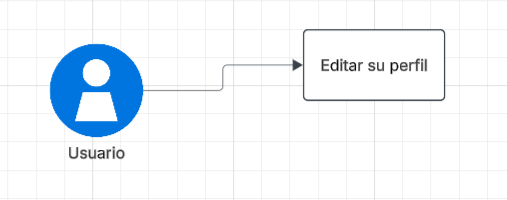
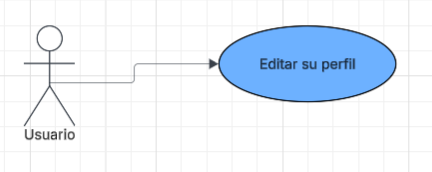
docs: refactorized requirement 1, added a new file to specify what should be in register and profile and uploaded images with UML standard

Changed region(s): [[0.0301, 0.1453, 0.9329, 0.814], [0.0602, 0.1744, 0.0903, 0.2616]]

diff --git a/oficioYa-users/docs/requirements/requirements.md b/oficioYa-users/docs/requirements/requirements.md
@@ -8,14 +8,12 @@ El sistema de OficioYa tiene los siguientes requerimientos (descripción a alto 
 
 El sistema de OficioYa debe tener la capacidad de:
 
-1. Permitir registrar una cuenta con los datos necesarios según el rol
-2. Una misma cuenta debe tener roles simultáneos sin tener que crear otra cuenta
+1. Permitir registrar un usuario con los datos necesarios según el rol
+2. Un mismo usuario debe tener roles simultáneos sin tener que crear otro usuario
 3. Consultar su propio perfil con la información registrada en la plataforma
 4. Editar ciertas secciones principales del perfil (excepto las que están ocultas)
 5. Consultar el perfil de otro usuario, mostrando información básica de acuerdo al tipo de rol
-6. Autorizar al administrador de realizar todas las operaciones CRUD sobre las cuentas
-de la plataforma
-7. El administrador puede desactivar o reactivar una cuenta por si sucede algún conflicto o mal uso
+6. El administrador puede desactivar o reactivar una cuenta por si sucede algún conflicto o mal uso
 de los servicios que ofrece la página web
 
 ### 1.2 Requerimientos no funcionales
@@ -31,91 +29,78 @@ para todos los usuarios (excepto para el administrador)
 
 ### 2.1 Requerimiento Funcional 1
 
-| Campo | Descripción                                                                                                                                                                              |
-|------|------------------------------------------------------------------------------------------------------------------------------------------------------------------------------------------|
-| **ID** | RF-01                                                                                                                                                                                    |
-| **Nombre del requerimiento** | Permitir registrar una cuenta con los datos necesarios según el rol.                                                                                                                     |
-| **Descripción** | *El sistema debe permitir a un usuario registrar su información y elegir el tipo de rol(es) a su cuenta*                                                                                 |
-| **Precondiciones** | *El usuario no debe tener una cuenta previamente registrada con el mismo correo*                                                                                                         |
-| **Actor** | *Usuario*                                                                                                                                                                                |
-| **Flujo principal** | 1. El usuario entra a la plataforma<br/>2. El usuario digita sus datos (si es trabajador o contratante) en los campos requeridos <br/>3. La cuenta ha sido registrada dentro de OficioYa |
-| **Diagrama de caso de uso** | ![Diagrama RF-01](../uml/user_register_account.png)                                                                                                                                      |
-| **Poscondiciones** | *La cuenta del usuario debió haber sido registrada exitosamente dentro de la plataforma*                                                                                                 |
+| Campo                        | Descripción                                                                                                                                                                                                                               |
+|------------------------------|-------------------------------------------------------------------------------------------------------------------------------------------------------------------------------------------------------------------------------------------|
+| **ID**                       | RF-01                                                                                                                                                                                                                                     |
+| **Nombre del requerimiento** | Permitir registrar una cuenta con los datos necesarios según el rol.                                                                                                                                                                      |
+| **Descripción**              | *El sistema debe permitir a un usuario registrar su información y elegir el tipo de rol(es) a su cuenta*. El formulario del usuario debe quedar de la siguiente manera:<br/>[Requisito de datos del usuario](./data_user_requirements.md) |
+| **Precondiciones**           | *El usuario no debe tener una cuenta previamente registrada con el mismo correo*                                                                                                                                                          |
+| **Actor**                    | *Usuario*                                                                                                                                                                                                                                 |
+| **Flujo principal**          | 1. El usuario entra a la plataforma<br/>2. El usuario digita sus datos (si es trabajador o contratante) en los campos requeridos <br/>3. La cuenta ha sido registrada dentro de OficioYa                                                  |
+| **Diagrama de caso de uso**  | ![Diagrama RF-01](../uml/user_register_account.png)                                                                                                                                                                                       |
+| **Poscondiciones**           | *La cuenta del usuario debió haber sido registrada exitosamente dentro de la plataforma*                                                                                                                                                  |
 
 ### 2.2 Requerimiento Funcional 2
 
-| Campo | Descripción                                                                                                                                     |
-|------|-------------------------------------------------------------------------------------------------------------------------------------------------|
-| **ID** | RF-02                                                                                                                                           |
+| Campo                        | Descripción                                                                                                                                     |
+|------------------------------|-------------------------------------------------------------------------------------------------------------------------------------------------|
+| **ID**                       | RF-02                                                                                                                                           |
 | **Nombre del requerimiento** | Una misma cuenta debe tener roles simultáneos sin tener que crear otra cuenta.                                                                  |
-| **Descripción** | *Permitir dos roles a la vez en una misma cuenta*                                                                                               |
-| **Precondiciones** | *El sistema debe permitir que una misma cuenta opere como trabajador y contratante a la vez, sin necesidad de crear una segunda cuenta*         |
-| **Actor** | *Usuario*                                                                                                                                       |
-| **Flujo principal** | 1. El usuario ingresa a su perfil <br/>2. El usuario solicita añadir el rol faltante<br/>3. El sistema habilita el nuevo rol en la misma cuenta |
-| **Diagrama de caso de uso** | ![Diagrama RF-02](../uml/additional_role.png)                                                                                                   |
-| **Poscondiciones** | *La cuenta del usuario es habilitada con ambos roles*                                                                                           |
+| **Descripción**              | *Permitir dos roles a la vez en una misma cuenta*                                                                                               |
+| **Precondiciones**           | *El sistema debe permitir que una misma cuenta opere como trabajador y contratante a la vez, sin necesidad de crear una segunda cuenta*         |
+| **Actor**                    | *Usuario*                                                                                                                                       |
+| **Flujo principal**          | 1. El usuario ingresa a su perfil <br/>2. El usuario solicita añadir el rol faltante<br/>3. El sistema habilita el nuevo rol en la misma cuenta |
+| **Diagrama de caso de uso**  | ![Diagrama RF-02](../uml/additional_role.png)                                                                                                   |
+| **Poscondiciones**           | *La cuenta del usuario es habilitada con ambos roles*                                                                                           |
 
 ### 2.3 Requerimiento Funcional 3
 
-| Campo | Descripción                                                                                                                             |
-|------|-----------------------------------------------------------------------------------------------------------------------------------------|
-| **ID** | RF-03                                                                                                                                   |
+| Campo                        | Descripción                                                                                                                             |
+|------------------------------|-----------------------------------------------------------------------------------------------------------------------------------------|
+| **ID**                       | RF-03                                                                                                                                   |
 | **Nombre del requerimiento** | Consultar su propio perfil.                                                                                                             |
-| **Descripción** | *El sistema debe permitir a un usuario consultar su propio perfil con la información registrada en la plataforma*                       |
-| **Precondiciones** | *El usuario debe estar autenticado en la platorma*                                                                                      |
-| **Actor** | *Trabajador o Contratante*                                                                                                              |
-| **Flujo principal** | 1. El usuario ingresa a la sección *Perfil*<br/>2. El sistema muestra información básica del usuario pero con correo y teléfono ocultos |
-| **Diagrama de caso de uso** | ![Diagrama RF-03](../uml/query_profile.png)                                                                                             |
-| **Poscondiciones** | *El usuario debe ver correctamente su perfil*                                                                                           |
+| **Descripción**              | *El sistema debe permitir a un usuario consultar su propio perfil con la información registrada en la plataforma*                       |
+| **Precondiciones**           | *El usuario debe estar autenticado en la platorma*                                                                                      |
+| **Actor**                    | *Trabajador o Contratante*                                                                                                              |
+| **Flujo principal**          | 1. El usuario ingresa a la sección *Perfil*<br/>2. El sistema muestra información básica del usuario pero con correo y teléfono ocultos |
+| **Diagrama de caso de uso**  | ![Diagrama RF-03](../uml/query_profile.png)                                                                                             |
+| **Poscondiciones**           | *El usuario debe ver correctamente su perfil*                                                                                           |
 
 ### 2.4 Requerimiento Funcional 4
 
-| Campo | Descripción                                                                                                                                                           |
-|------|-----------------------------------------------------------------------------------------------------------------------------------------------------------------------|
-| **ID** | RF-04                                                                                                                                                                 |
+| Campo                        | Descripción                                                                                                                                                           |
+|------------------------------|-----------------------------------------------------------------------------------------------------------------------------------------------------------------------|
+| **ID**                       | RF-04                                                                                                                                                                 |
 | **Nombre del requerimiento** | Editar su propio perfil.                                                                                                                                              |
-| **Descripción** | *El sistema debe permitir editar las secciones básicas del perfil con excepción de los campos ocultos*                                                                |
-| **Precondiciones** | *El usuario debe estar autenticado y tener un perfil ya creado*                                                                                                       |
-| **Actor** | *Trabajador o Contratante*                                                                                                                                            |
-| **Flujo principal** | 1. El usuario ingresa a la sección *Editar perfil*<br/>2. El usuario modifica los campos que puede editar (nombre, foto, oficio)<br/>3. El sistema guarda los cambios |
-| **Diagrama de caso de uso** | ![Diagrama RF-04](../uml/edit_profile.png)                                                                                                                            |
-| **Poscondiciones** | *El perfil debe quedar actualizado con la nueva información*                                                                                                          |
+| **Descripción**              | *El sistema debe permitir editar las secciones básicas del perfil con excepción de los campos ocultos*                                                                |
+| **Precondiciones**           | *El usuario debe estar autenticado y tener un perfil ya creado*                                                                                                       |
+| **Actor**                    | *Trabajador o Contratante*                                                                                                                                            |
+| **Flujo principal**          | 1. El usuario ingresa a la sección *Editar perfil*<br/>2. El usuario modifica los campos que puede editar (nombre, foto, oficio)<br/>3. El sistema guarda los cambios |
+| **Diagrama de caso de uso**  | ![Diagrama RF-04](../uml/edit_profile.png)                                                                                                                            |
+| **Poscondiciones**           | *El perfil debe quedar actualizado con la nueva información*                                                                                                          |
 
 ### 2.5 Requerimiento Funcional 5
 
-| Campo | Descripción                                                                                                                              |
-|------|------------------------------------------------------------------------------------------------------------------------------------------|
-| **ID** | RF-05                                                                                                                                    |
+| Campo                        | Descripción                                                                                                                              |
+|------------------------------|------------------------------------------------------------------------------------------------------------------------------------------|
+| **ID**                       | RF-05                                                                                                                                    |
 | **Nombre del requerimiento** | Consultar perfil de otro usuario.                                                                                                        |
-| **Descripción** | *El sistema debe permitir consultar el perfil de otro usuario, mostrando información básica, según el rol sin mostrar correo y teléfono* |
-| **Precondiciones** | *El usuario debe estar autenticado y tener un perfil ya creado*                                                                          |
-| **Actor** | *Trabajador o Contratante*                                                                                                               |
-| **Flujo principal** | 1. El usuario busca o selecciona otro usuario<br/>2. El sistema muestra información básica de un perfil                                  |
-| **Diagrama de caso de uso** | ![Diagrama RF-05](../uml/query_other_profiles.png)                                                                                       |
-| **Poscondiciones** | *El usuario visualiza la información básica del perfil consultado*                                                                       |
+| **Descripción**              | *El sistema debe permitir consultar el perfil de otro usuario, mostrando información básica, según el rol sin mostrar correo y teléfono* |
+| **Precondiciones**           | *El usuario debe estar autenticado y tener un perfil ya creado*                                                                          |
+| **Actor**                    | *Trabajador o Contratante*                                                                                                               |
+| **Flujo principal**          | 1. El usuario busca o selecciona otro usuario<br/>2. El sistema muestra información básica de un perfil                                  |
+| **Diagrama de caso de uso**  | ![Diagrama RF-05](../uml/query_other_profiles.png)                                                                                       |
+| **Poscondiciones**           | *El usuario visualiza la información básica del perfil consultado*                                                                       |
 
 ### 2.6 Requerimiento Funcional 6
 
-| Campo | Descripción                                                                                                                                                                                         |
-|------|-----------------------------------------------------------------------------------------------------------------------------------------------------------------------------------------------------|
-| **ID** | RF-06                                                                                                                                                                                               |
-| **Nombre del requerimiento** | Autorizar al administrador a realizar operaciones CRUD sobre las cuentas.                                                                                                                           |
-| **Descripción** | *El sistema debe permitir al administrador crear, consultar, actualizar y eliminar cuentas de usuarios en OficioYa*                                                                                 |
-| **Precondiciones** | *El actor debe estar autenticado con rol de administrador*                                                                                                                                          |
-| **Actor** | *Administrador*                                                                                                                                                                                     |
-| **Flujo principal** | 1. El administrador ingresa al panel de gestionar usuarios<br/>2. El administrador selecciona la operación que quiera hacer (CRUD)<br/>3. El sistema ejecuta la operación en la cuenta seleccionada |
-| **Diagrama de caso de uso** | ![Diagrama RF-06](../uml/authorize_admin.png)                                                                                                                                                       |
-| **Poscondiciones** | *La operación hecha se queda guardada en la cuenta gestionada*                                                                                                                                      |
-
-### 2.7 Requerimiento Funcional 7
-
-| Campo | Descripción                                                                                                                                                                                                                |
-|------|----------------------------------------------------------------------------------------------------------------------------------------------------------------------------------------------------------------------------|
-| **ID** | RF-07                                                                                                                                                                                                                      |
+| Campo                        | Descripción                                                                                                                                                                                                                |
+|------------------------------|----------------------------------------------------------------------------------------------------------------------------------------------------------------------------------------------------------------------------|
+| **ID**                       | RF-06                                                                                                                                                                                                                      |
 | **Nombre del requerimiento** | Desactivar o reactivar una cuenta.                                                                                                                                                                                         |
-| **Descripción** | *El sistema debe permitir al administrador desactivar o reactivar una cuenta por si sucede un conflicto o mal uso de plataforma*                                                                                           |
-| **Precondiciones** | *El actor debe estar autenticado con rol de administrador*                                                                                                                                                                 |
-| **Actor** | *Administrador*                                                                                                                                                                                                            |
-| **Flujo principal** | 1. El administrador selecciona la cuenta reportada por algún usuario de la plataforma<br/>2. El administrador cambia el estado de la cuenta (activa/inactiva)<br/>3. El sistema actualiza el estado en que queda la cuenta |
-| **Diagrama de caso de uso** | ![Diagrama RF-07](../uml/enable_disable_account_admin.png)                                                                                                                                                                 |
-| **Poscondiciones** | *La cuenta queda desactivada o reactivada según la acción hecha*                                                                                                                                                           |
+| **Descripción**              | *El sistema debe permitir al administrador desactivar o reactivar una cuenta por si sucede un conflicto o mal uso de plataforma*                                                                                           |
+| **Precondiciones**           | *El actor debe estar autenticado con rol de administrador*                                                                                                                                                                 |
+| **Actor**                    | *Administrador*                                                                                                                                                                                                            |
+| **Flujo principal**          | 1. El administrador selecciona la cuenta reportada por algún usuario de la plataforma<br/>2. El administrador cambia el estado de la cuenta (activa/inactiva)<br/>3. El sistema actualiza el estado en que queda la cuenta |
+| **Diagrama de caso de uso**  | ![Diagrama RF-06](../uml/enable_disable_user_admin.png)                                                                                                                                                                    |
+| **Poscondiciones**           | *La cuenta queda desactivada o reactivada según la acción hecha*                                                                                                                                                           |

diff --git a/oficioYa-users/docs/requirements/data_user_requirements.md b/oficioYa-users/docs/requirements/data_user_requirements.md
@@ -1,0 +1,38 @@
+### Trabajador
+
+| Dato                             | Descripción                                                                                                 | Requerimiento                                                                                                                                      | Vista             |
+|----------------------------------|-------------------------------------------------------------------------------------------------------------|----------------------------------------------------------------------------------------------------------------------------------------------------|-------------------|
+| Nombre                           | El nombre del usuario que tiene como rol trabajador                                                         | Obligatorio                                                                                                                                        | Registro y perfil |
+| Contraseña                       | Caracteres para verificar que el usuario inició sesión/se registró dentro de la plataforma                  | Obligatorio (mínimo de 12 caracteres, mínimo un carácter especial, mínimo una letra en mayúscula, mínimo una letra en minúscula, mínimo un número) | Registro y perfil |
+| Foto                             | Sirve para saber la identidad del usuario que realiza distintos oficios                                     | Obligatorio                                                                                                                                        | Registro y perfil |
+| Correo                           | Es la forma en que se reconocerá al usuario dentro de la plataforma                                         | Obligatorio (cualquier correo es admitido pero en el perfil NO se puede modificar después de registrado)                                           | Registro y perfil |
+| Teléfono                         | El número de celular del usuario para ser contactado                                                        | Obligatorio (modificable y se puede tener más de un número)                                                                                        | Registro y perfil |
+| Oficio principal                 | Es el trabajo primario por el que se caracteriza el usuario                                                 | Obligatorio                                                                                                                                        | Registro y perfil |
+| Oficios secundarios              | Son otros trabajos adicionales que se enfoca el usuario                                                     | Opcional (aquí también se pueden adicionar las categorías especiales)                                                                              | Registro y perfil |
+| Zona de cobertura                | Es el barrio en donde el usuario quiere realizar su oficio o donde se caracteriza por realizarlo allí       | Obligatorio (una sola cobertura)                                                                                                                   | Registro y perfil |
+| Tarifa aproximada                | Es la cantidad de dinero que el usuario le cobra a un contratante por realizar su trabajo                   | Obligatorio                                                                                                                                        | Registro y perfil |
+| Disponibilidad semanal           | Es la hora y fecha en el que el usuario se dedica a realizar su labor                                       | Obligatorio                                                                                                                                        | Registro y perfil |
+| Galería de trabajos anteriores   | Son las fotos en donde se evidencia que el trabajador ha hecho la labor principal o los oficios secundarios | Obligatorio (para oficio primario: mínimo 3 y máximo 7, para oficios secundarios: mínimo 2 y máximo 5)                                             | Registro y perfil |
+| Reseña                           | Formato de máximo 5000 caracteres para dar una evaluación al usuario trabajador                             | Opcional                                                                                                                                           | Perfil            |
+| Cantidad de trabajos completados | Son las labores hechas correctamente por el usuario                                                         | Ninguno                                                                                                                                            | Perfil            |
+| Calificación promedio            | Es la calificación en estrellas de la reputación del usuario                                                | Tener 1 trabajo completado como mínimo                                                                                                             | Perfil            |
+| Suscripción                      | Forma de monetizar para que aparezca primero en búsquedas y acceder a estadísticas avanzadas de su demanda  | Ninguna                                                                                                                                            | Perfil            |
+
+### Contratante
+
+| Dato       | Descripción                                                                                | Requerimiento                                                                                                                                      | Vista             |
+|------------|--------------------------------------------------------------------------------------------|----------------------------------------------------------------------------------------------------------------------------------------------------|-------------------|
+| Nombre     | El nombre del usuario que tiene como rol contratante                                       | Obligatorio                                                                                                                                        | Registro y perfil |
+| Contraseña | Caracteres para verificar que el usuario inició sesión/se registró dentro de la plataforma | Obligatorio (mínimo de 12 caracteres, mínimo un carácter especial, mínimo una letra en mayúscula, mínimo una letra en minúscula, mínimo un número) | Registro y perfil |
+| Foto       | Sirve para saber la identidad del usuario que quiere pedir un servicio                     | Opcional                                                                                                                                           | Registro y perfil |
+| Correo     | Es la forma en que se reconocerá al usuario dentro de la plataforma                        | Obligatorio (cualquier correo es admitido pero en el perfil NO se puede modificar después de registrado)                                           | Registro y perfil |
+| Teléfono   | El número de celular del usuario para ser contactado                                       | Obligatorio (modificable y se puede tener más de un número)                                                                                        | Registro y perfil |
+
+### Administrador
+
+| Dato       | Descripción                                                                                | Requerimiento                                                                                                                                      | Vista             |
+|------------|--------------------------------------------------------------------------------------------|----------------------------------------------------------------------------------------------------------------------------------------------------|-------------------|
+| Nombre     | El nombre del usuario que tiene como rol administrador                                     | Obligatorio                                                                                                                                        | Registro y perfil |
+| Correo     | Es la forma en que se reconocerá al usuario dentro de la plataforma                        | Obligatorio (En el perfil NO se puede modificar después de registrado)                                                                             | Registro y perfil |
+| Contraseña | Caracteres para verificar que el usuario inició sesión/se registró dentro de la plataforma | Obligatorio (mínimo de 12 caracteres, mínimo un carácter especial, mínimo una letra en mayúscula, mínimo una letra en minúscula, mínimo un número) | Registro y perfil |
+| Registros  | Historial de todas las operaciones hechas para gestionar a los usuarios                    | Ninguno u obligatorio por parte del administrador                                                                                                  | Perfil            |
